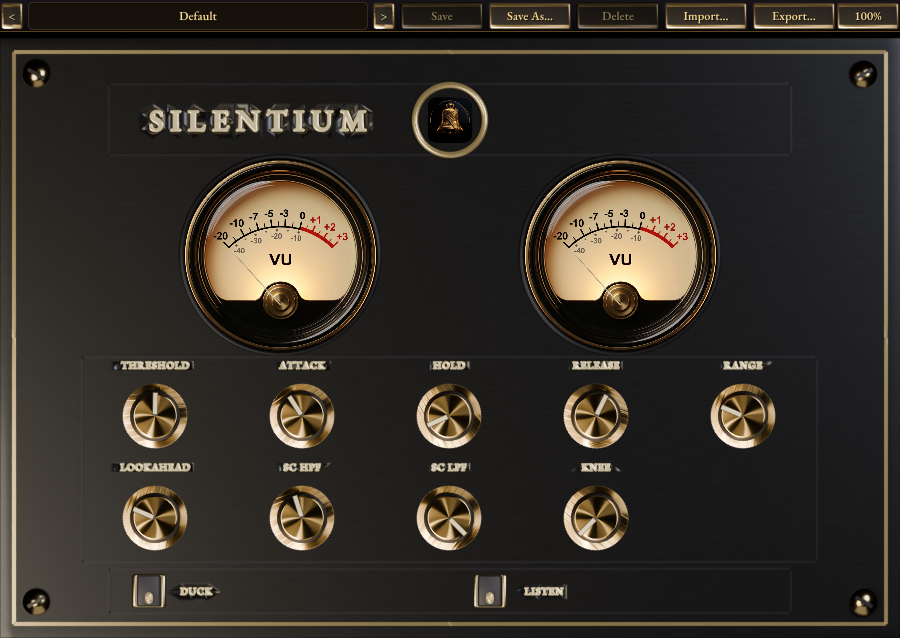
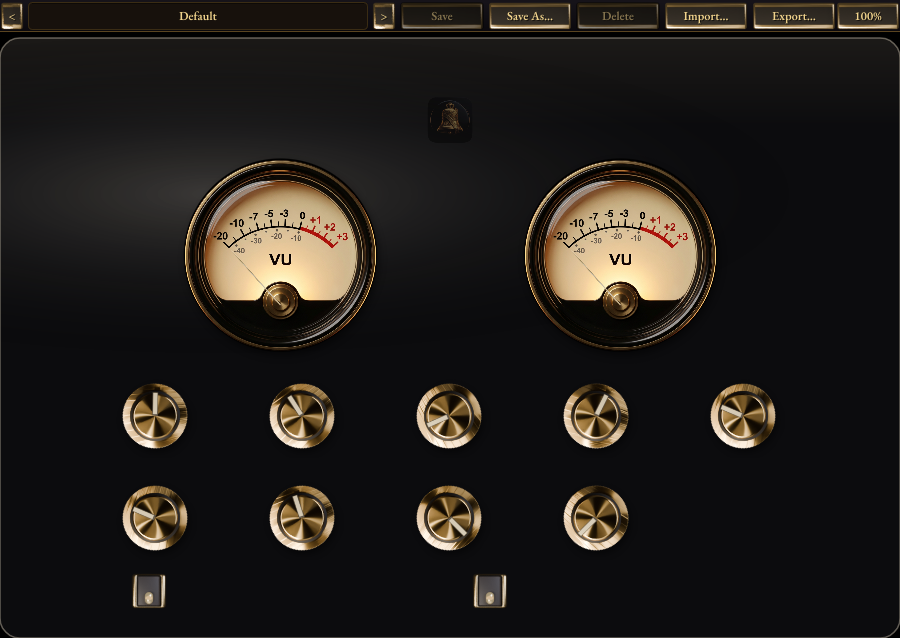
feat(gui): replace faceplate image with JUCE-drawn glossy-black background
Removes the photoreal faceplate_silentium_v2 PNG from the editor's plate
background (Yves' verdict: the nano-banana render looked wrong) and
replaces it with a vector-drawn glossy-black plate: a vertical gradient
with a warm rim at the top ~15%, a broad soft diagonal upper-left
reflection styled after brand/mock-raytrace-1-frontal.png, and a hairline
bright bevel tracing the rounded outline. Meters and knobs get a shared
drop-shadow via juce::DropShadowEffect so they read as objects sitting on
the plate rather than pasted flat onto it.

The old faceplate PNGs remain bundled in resources/gui/ (unused, for
manual cleanup) since removing them was explicitly out of scope. As a
side effect of removing the plate art, the captions baked into it (title,
knob/toggle labels) are no longer drawn - accessible names via setTitle()
are unaffected.

diff --git a/src/PluginEditor.cpp b/src/PluginEditor.cpp
@@ -1,7 +1,6 @@
 #include "PluginEditor.h"
 #include "PluginEditorLayout.h"
 #include "PluginProcessor.h"
-#include "gui/ImageDensity.h"
 #include "params/ParameterIds.h"
 #include "presets/Localisation.h"
 
@@ -111,10 +110,6 @@ SilentiumAudioProcessorEditor::SilentiumAudioProcessorEditor (SilentiumAudioProc
 {
     setLookAndFeel (&lookAndFeel);
 
-    facePlateImage1x = loadImage (BinaryData::faceplate_silentium_v2_900x600_png,
-                                  BinaryData::faceplate_silentium_v2_900x600_pngSize);
-    facePlateImage2x = loadImage (BinaryData::faceplate_silentium_v2_1800x1200_png,
-                                  BinaryData::faceplate_silentium_v2_1800x1200_pngSize);
     brandIconImage = loadImage (BinaryData::icon256_png, BinaryData::icon256_pngSize);
 
     // Creation order below doubles as the accessibility/keyboard focus
@@ -140,6 +135,13 @@ SilentiumAudioProcessorEditor::SilentiumAudioProcessorEditor (SilentiumAudioProc
     addAndMakeVisible (gainReductionMeter);
     addAndMakeVisible (inputLevelMeter);
 
+    // v0.3.2: drop-shadow so the meter housings read as sitting on the
+    // glossy plate rather than pasted flat onto it - see
+    // controlShadowEffect's docs (PluginEditor.h) and applyScaleStep() for
+    // the actual shadow parameters (scale-dependent, set there).
+    gainReductionMeter.setComponentEffect (&controlShadowEffect);
+    inputLevelMeter.setComponentEffect (&controlShadowEffect);
+
     const auto knobStrip1x = loadImage (BinaryData::knob_brass_v2_strip_160px_128f_png,
                                         BinaryData::knob_brass_v2_strip_160px_128f_pngSize);
     const auto knobStrip2x = loadImage (BinaryData::knob_brass_v2_strip_320px_128f_png,
@@ -150,6 +152,7 @@ SilentiumAudioProcessorEditor::SilentiumAudioProcessorEditor (SilentiumAudioProc
         auto& entry = knobLayout[i];
         knobs[i].slider = std::make_unique<basilica::gui::FilmstripKnob> (knobStrip1x, knobStrip2x, 128);
         configureKnob (knobs[i], entry.parameterId, entry.labelText);
+        knobs[i].slider->setComponentEffect (&controlShadowEffect);
     }
 
     const auto toggleStrip1x = loadImage (BinaryData::toggle_brass_v2_strip_40px_4f_png,
@@ -254,6 +257,19 @@ void SilentiumAudioProcessorEditor::applyScaleStep (int newStepIndex)
     scaleButton.setTitle ("Window scale, " + percentText);
 
     const auto scale = scaleSteps[(size_t) scaleStepIndex];
+
+    // v0.3.2: (re)configure the shared meter/knob drop-shadow for the
+    // current scale step - offset (~2, ~4 px @1x) and radius (~10 px @1x)
+    // per Yves' brief, scaled so the shadow doesn't shrink to invisibility
+    // at 150%/200%. Runs here (not just once at construction) because this
+    // is the single place scale changes take effect, and setShadowProperties()
+    // updates the ONE shared controlShadowEffect instance every meter/knob
+    // already points at via setComponentEffect() - no per-component re-wiring
+    // needed.
+    controlShadowEffect.setShadowProperties (juce::DropShadow (juce::Colours::black.withAlpha (0.45f),
+                                                                (int) std::lround (10.0f * scale),
+                                                                { (int) std::lround (2.0f * scale), (int) std::lround (4.0f * scale) }));
+
     setSize ((int) std::lround ((float) baseEditorWidth * scale),
              (int) std::lround ((float) baseEditorHeight * scale));
 }
@@ -278,10 +294,69 @@ void SilentiumAudioProcessorEditor::paint (juce::Graphics& g)
     const auto plateBounds = juce::Rectangle<float> (0.0f, (float) topStripHeight1x * scale + (float) topStripGap1x * scale,
                                                       (float) plateWidth1x * scale, (float) plateHeight1x * scale);
 
-    const auto& plateImage = basilica::gui::pickImageForWidth (facePlateImage1x, facePlateImage2x,
-                                                               plateWidth1x, (int) plateBounds.getWidth());
-    if (plateImage.isValid())
-        g.drawImage (plateImage, plateBounds);
+    // v0.3.2: JUCE-drawn glossy-black plate, replacing the pre-rendered
+    // faceplate_silentium_v2 photoreal PNG - Yves' verdict was that the
+    // nano-banana render looked wrong, and this vector gloss reads better
+    // with the VU meters/knobs as the sole focal points. Styled after
+    // brand/mock-raytrace-1-frontal.png's three physical-object cues: a
+    // vertical base gradient with a warm rim at the very top, a broad soft
+    // upper-left studio-softbox reflection, and a hairline bright bevel
+    // tracing the rounded outline. The meters/knobs get their own
+    // drop-shadow via controlShadowEffect (see the constructor/
+    // applyScaleStep()) rather than anything painted here.
+    const auto cornerRadius = 20.0f * scale;
+    juce::Path platePath;
+    platePath.addRoundedRectangle (plateBounds, cornerRadius);
+
+    // Base vertical gradient: warm rim highlight confined to the top ~15%
+    // of the plate, near-black base for the rest (ColourGradient clamps to
+    // colour2 past its end point, so nothing further needs doing below the
+    // 15% mark).
+    juce::ColourGradient plateGradient (juce::Colour::fromRGB (28, 26, 24),
+                                        plateBounds.getX(), plateBounds.getY(),
+                                        juce::Colour::fromRGB (12, 12, 14),
+                                        plateBounds.getX(), plateBounds.getY() + plateBounds.getHeight() * 0.15f,
+                                        false);
+    g.setGradientFill (plateGradient);
+    g.fillPath (platePath);
+
+    {
+        // Broad, soft, DIAGONAL reflection in the upper-left quadrant (not a
+        // subtle vignette - a real bright zone that reads as gloss, per
+        // Yves' reference mock). Implemented by drawing a circular radial
+        // gradient through a non-uniform scale+rotate transform, so its true
+        // shape in device space is a flattened, tilted ellipse. Clipped to
+        // the plate's own rounded-rect path first so the transformed fill
+        // can never spill past the plate edge.
+        juce::Graphics::ScopedSaveState reflectionSave (g);
+        g.reduceClipRegion (platePath);
+
+        const auto reflectionCentreX = plateBounds.getX() + plateBounds.getWidth() * 0.24f;
+        const auto reflectionCentreY = plateBounds.getY() + plateBounds.getHeight() * 0.26f;
+        const auto reflectionRadius = plateBounds.getWidth() * 0.36f; // ~30-40% of plate width
+
+        g.addTransform (juce::AffineTransform::rotation (juce::MathConstants<float>::pi * -0.16f,
+                                                          reflectionCentreX, reflectionCentreY)
+                            .scaled (1.8f, 0.5f, reflectionCentreX, reflectionCentreY));
+
+        juce::ColourGradient reflectionGradient (juce::Colour::fromRGB (255, 244, 224).withAlpha (0.20f),
+                                                  reflectionCentreX, reflectionCentreY,
+                                                  juce::Colours::transparentBlack,
+                                                  reflectionCentreX + reflectionRadius, reflectionCentreY,
+                                                  true);
+        g.setGradientFill (reflectionGradient);
+
+        // Filled rect is generously oversized (relative to the now-tilted/
+        // scaled coordinate space) so the visible, clip-bounded area is
+        // fully covered regardless of the transform above.
+        g.fillRect (plateBounds.expanded (plateBounds.getWidth(), plateBounds.getHeight()));
+    }
+
+    // Hairline outer bevel: a thin bright warm-white line tracing the
+    // plate's rounded outline, catching light like a real polished edge -
+    // drawn last, unclipped, on top of the base gradient and reflection.
+    g.setColour (juce::Colour::fromRGB (238, 227, 203).withAlpha (0.40f));
+    g.strokePath (platePath, juce::PathStrokeType (juce::jmax (1.0f, 1.5f * scale)));
 
     if (brandIconImage.isValid())
     {

diff --git a/src/PluginEditor.h b/src/PluginEditor.h
@@ -14,19 +14,25 @@ class SilentiumAudioProcessor;
 
 // v0.3.1 visual overhaul editor: photoreal skeuomorphic UI built from the
 // reusable src/gui/ component family (FilmstripKnob, FilmstripToggle,
-// AnalogMeter, BasilicaLookAndFeel) plus the pre-rendered faceplate PNG (see
-// .scaffold/gui-assets/faceplate-silentium-v2/README.md). Every visible
-// control is wired to a real APVTS parameter or a real metering value - no
-// dead decoration, per the basilica-gui-design skill's binding spec.
+// AnalogMeter, BasilicaLookAndFeel). Every visible control is wired to a
+// real APVTS parameter or a real metering value - no dead decoration, per
+// the basilica-gui-design skill's binding spec.
+//
+// v0.3.2: the plate background switched from a pre-rendered photoreal PNG
+// (resources/gui/faceplate_silentium_v2_*.png, still bundled via BinaryData
+// but no longer loaded/drawn anywhere - Yves' call, left in place for manual
+// cleanup) to a JUCE-drawn glossy-black surface painted directly in paint()
+// - base gradient, a broad soft upper-left reflection, and a hairline outer
+// bevel, styled after brand/mock-raytrace-1-frontal.png. See paint()'s docs.
 //
 // TYPOGRAPHY / LABELS: since v0.3.1 every static caption (title, knob
-// labels, toggle labels) is ENGRAVED into the faceplate PNG itself (EB
+// labels, toggle labels) was ENGRAVED into the faceplate PNG itself (EB
 // Garamond, gold inlay, rendered by the Blender pipeline) - there are no
-// juce::Label captions in this editor any more. The controls' positions come
-// from the same slnt::layout table the plate art was authored against
-// (src/PluginEditorLayout.h documents that contract), so the baked labels
-// always line up with the live controls. Accessible names are unaffected:
-// every control still carries its parameter name via setTitle().
+// juce::Label captions in this editor. Since the v0.3.2 background swap
+// those baked captions are GONE (the plate art that carried them is no
+// longer drawn) - only the knob-grid/aux-bay geometry from the same
+// slnt::layout table remains. Accessible names are unaffected: every
+// control still carries its parameter name via setTitle().
 //
 // Window scaling is STEPPED (100/150/200%, a UA-style corner control next to
 // the preset bar, persisted as a plain property on the APVTS state tree) -
@@ -75,8 +81,16 @@ private:
 
     basilica::gui::BasilicaLookAndFeel lookAndFeel;
 
-    juce::Image facePlateImage1x, facePlateImage2x;
     juce::Image brandIconImage;
+
+    // v0.3.2: shared drop-shadow, applied via setComponentEffect() to every
+    // meter and knob so they read as objects sitting ON the glossy plate
+    // rather than pasted flat onto it (per brand/mock-raytrace-1-frontal.png
+    // - see the constructor and applyScaleStep()). One instance is shared
+    // across all of them since DropShadowEffect is stateless between
+    // applyEffect() calls and painting is always single-threaded on the
+    // message thread - not per-component state.
+    juce::DropShadowEffect controlShadowEffect;
 
     basilica::presets::PresetBar presetBar;
     juce::TextButton scaleButton;